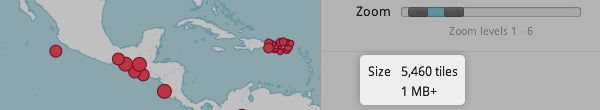
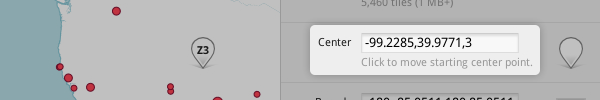
updating crashcourse pics and steps to refltect 0.9.0 changes

diff --git a/_posts/docs/crashcourse/0202-07-01-exporting.md b/_posts/docs/crashcourse/0202-07-01-exporting.md
@@ -16,7 +16,7 @@ nextup:
 
 {% include prereq.html %}
 
-Once you have your map looking good, it is time to export. TileMill can export to MBTiles, PNG, PDF, or SVG. [See here](/tilemill/docs/manual/exporting/) for a brief overview of these formats.
+Once you have your map looking good, it is time to export. TileMill can export to MBTiles, PNG, PDF, SVG, or Mapnik XML. [See here](/tilemill/docs/manual/exporting/) for a brief overview of these formats.
 
 Previously, you [created a map of earthquakes](/tilemill/docs/crashcourse/point-data). You will now export that map as an MBTile to create a fully interactive map.
 
@@ -26,20 +26,21 @@ Previously, you [created a map of earthquakes](/tilemill/docs/crashcourse/point-
   ![](/tilemill/assets/pages/exporting-2.png)
 3. Choose a **Filename**. The name of the project will be placed here by default.
   ![](/tilemill/assets/pages/exporting-3.png)
-4. Select the map **Bounds**. This is the area of the map to be exported. By default the entire world is selected. If your map is allocated to a smaller region of the globe you can save processing time and disk space by **cropping** to that area. This can be done by manually entering values in the **Bounds** fields, or by holding the SHIFT key and clicking and dragging on the map.
-  ![](/tilemill/assets/pages/exporting-4.png)
-5. Select **Zoom** levels. Set the furthest zoom to 1 by dragging the left end to the right. Set the closest zoom to 6 by dragging the right end to the left.
+4. Select **Zoom** levels. Set the furthest zoom to 1 by dragging the left end to the right. Set the closest zoom to 6 by dragging the right end to the left.
   ![](/tilemill/assets/pages/exporting-5.png)
-You will notice the **Size** numbers update as you do this. These numbers indicate how large the exported file will be. The wider your **bounds** and the more **zoom levels** you have, the larger the final size of the MBTile file will be.
+You will notice the numbers below the slider update as you do this. These numbers indicate how large the exported file will be. The wider your **bounds** and the more **zoom levels** you have, the larger the final size of the MBTile file will be.
+5. Select the **Center** of the map. This determines the starting center and zoom level of the map when it is first loaded. You can manually enter these values or click a point in the map preview. Zoom to level three and click the center of the United States.
   ![](/tilemill/assets/pages/exporting-6.png)
+6. Select the map **Bounds**. This is the area of the map to be exported. By default the entire world is selected. If your map is allocated to a smaller region of the globe you can save processing time and disk space by **cropping** to that area. This can be done by manually entering values in the **Bounds** fields, or by holding the SHIFT key and clicking and dragging on the map. Leave the default value.
+  ![](/tilemill/assets/pages/exporting-4.png)
 6. Click **Export**.
   ![](/tilemill/assets/pages/exporting-7.png)
 The window will transition back to your project and the exports panel will appear. Here is where you can access and find information about your exported files. The most recent will appear at the top of the list and display its progress as it is being processed.
   ![](/tilemill/assets/pages/exporting-8.png)
-7. When the export process is complete, the progress bar will be replaced by **Upload** and **Save** buttons. **Upload** allows you to directly upload the map to [MapBox hosting](/tour/hosting/), while **Save** will save a copy of the file locally to a specified location.
+7. When the export process is complete, the progress bar will be replaced by a **Save** button. This will save a copy of the file locally to a specified location.
   ![](/tilemill/assets/pages/exporting-9.png)
 
 ### Congragulations!  
-You have completed your first map in TileMill! Take advantage of our **free 7-day hosting** on MapBox by clicking **Upload**.
+You have completed your first map in TileMill! Take advantage of our **free 7-day hosting** on MapBox by [uploading it to TileStream](http://tiles.mapbox.com/upload/create/).
 
 {% include nextup.html %}
